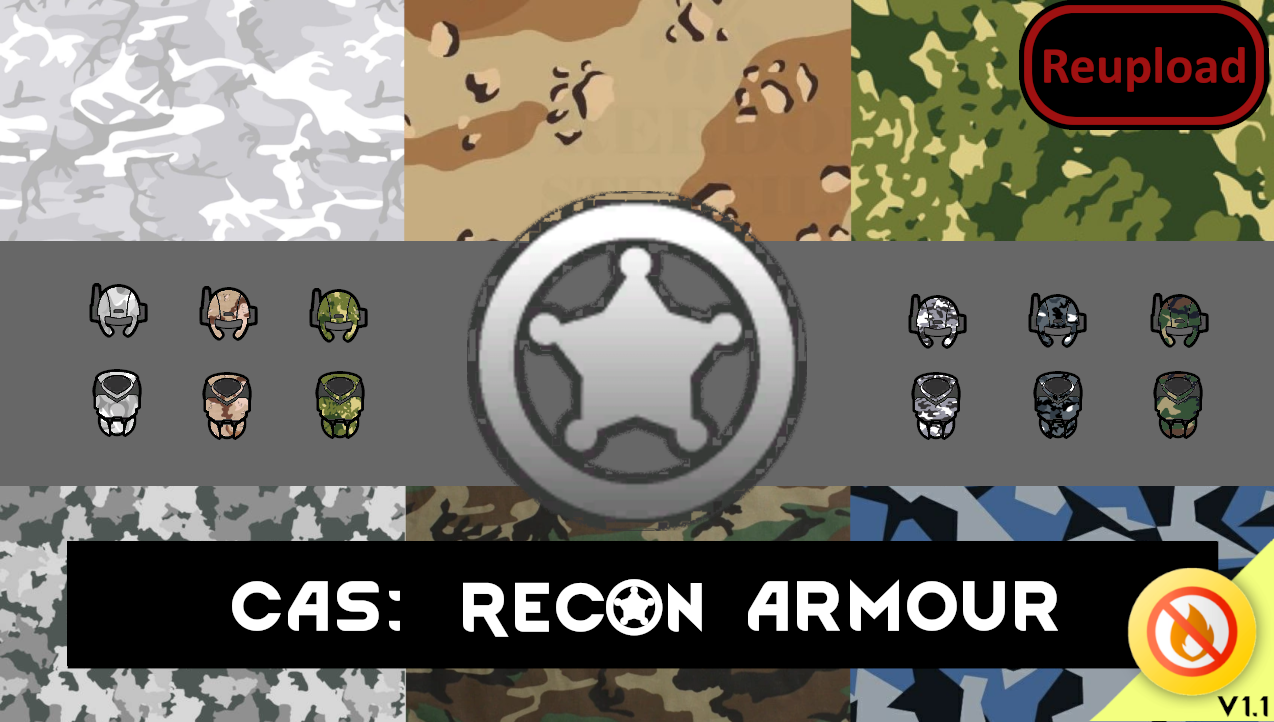
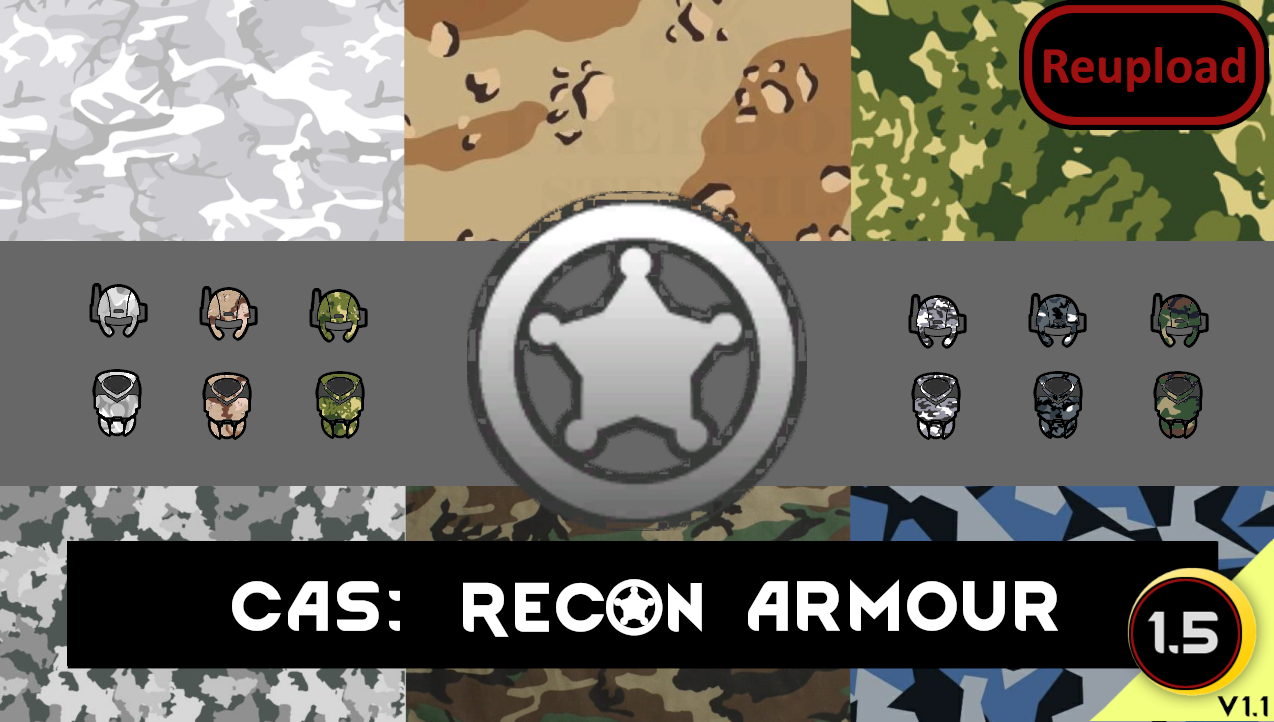
Mod updated for 1.5 and passed autotests

Changed region(s): [[0.8878, 0.7922, 0.9796, 0.9751]]

diff --git a/README.md b/README.md
@@ -39,11 +39,13 @@ Japanese translation - Proxyer
 
 -  See if the the error persists if you just have this mod and its requirements active.
 -  If not, try adding your other mods until it happens again.
--  Post your error-log using https://steamcommunity.com/workshop/filedetails/?id=818773962]HugsLib and command Ctrl+F12
+-  Post your error-log using https://steamcommunity.com/workshop/filedetails/?id=818773962]HugsLib or the standalone https://steamcommunity.com/sharedfiles/filedetails/?id=2873415404]Uploader and command Ctrl+F12
 -  For best support, please use the Discord-channel for error-reporting.
 -  Do not report errors by making a discussion-thread, I get no notification of that.
 -  If you have the solution for a problem, please post it to the GitHub repository.
+-  Use https://github.com/RimSort/RimSort/releases/latest]RimSort to sort your mods
 
 
 
+https://steamcommunity.com/sharedfiles/filedetails/changelog/2196958462]![Image](https://img.shields.io/github/v/release/emipa606/CASReconArmour?label=latest%20version&style=plastic&color=9f1111&labelColor=black)
 
